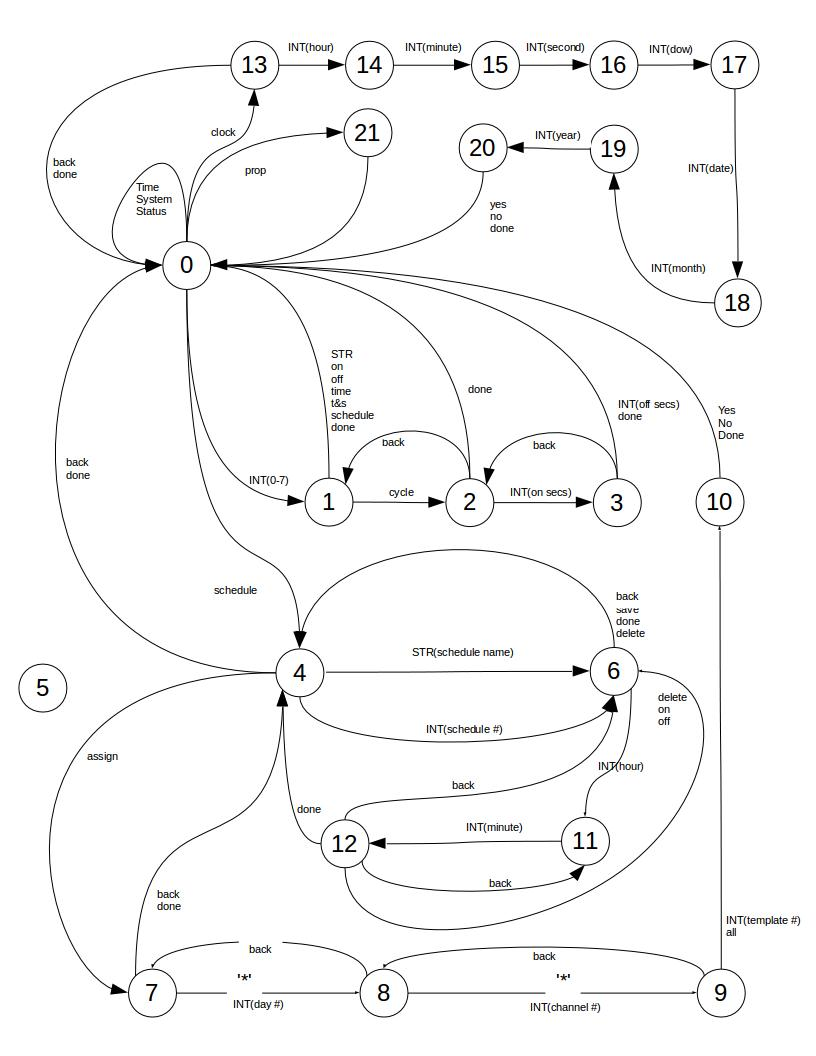
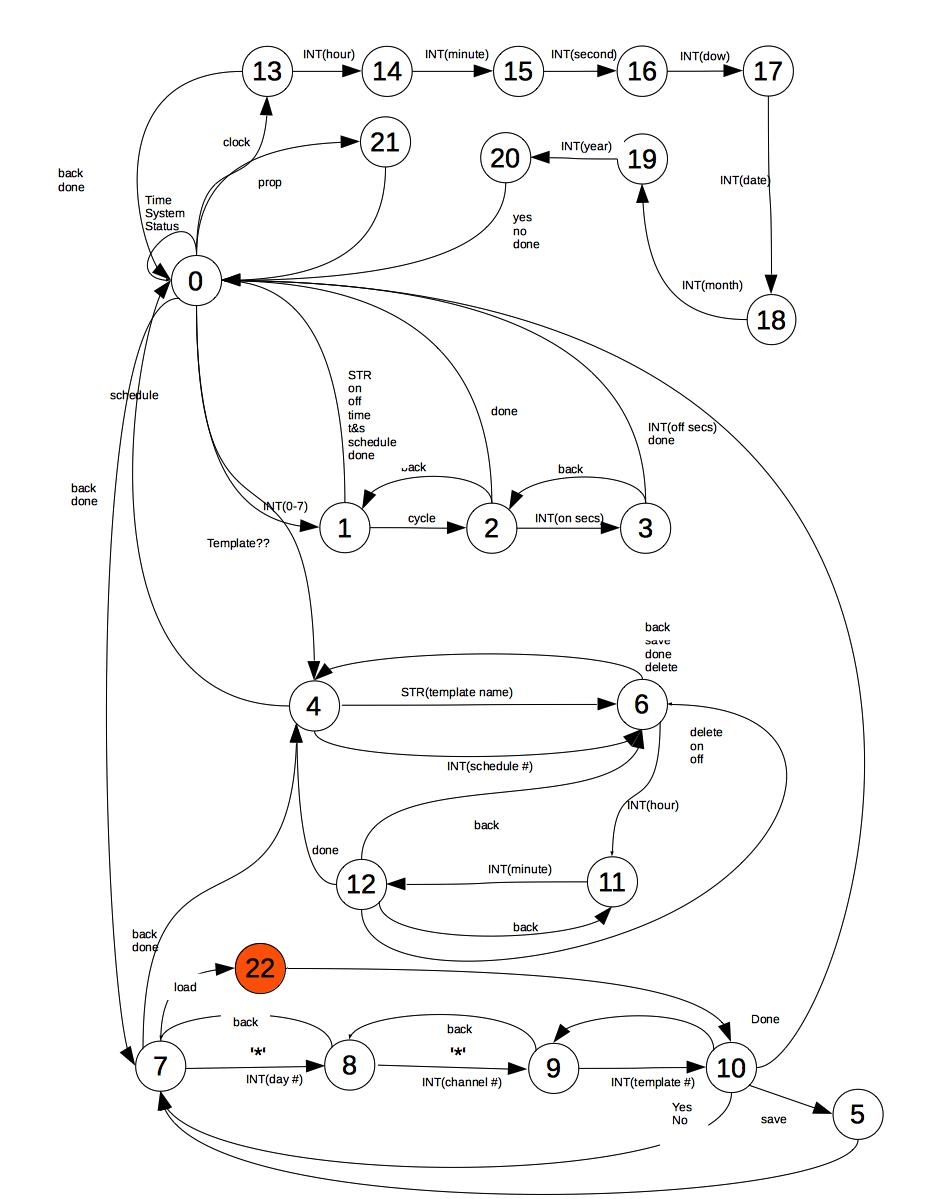
working on schedule maint

diff --git a/Pcon-BBB/cmd_fsm.c b/Pcon-BBB/cmd_fsm.c
@@ -176,7 +176,7 @@ char    *STR_def[_CMD_STATES] = {
 /* cmd processor state transition table */
 int cmd_new_state[_CMD_TOKENS][_CMD_STATES] ={
 /*                    0   1   2   3   4   5   6   7   8   9  10  11  12  13  14  15  16  17  18  19  20  21*/
-/*  0  INT      */  { 1,  1,  3,  0,  6,  6, 11,  8,  9,  7,  0, 12,  0,  0,  0,  0,  0,  0,  0,  0,  0,  0},
+/*  0  INT      */  { 1,  1,  3,  0,  6,  6, 11,  8,  9, 10,  0, 12,  0,  0,  0,  0,  0,  0,  0,  0,  0,  0},
 /*  1  STR      */  { 0,  0,  2,  3,  6,  5,  6,  7,  8,  0,  0,  0,  0,  0,  0,  0,  0,  0,  0,  0,  0,  0},
 /*  2  $        */  { 0,  1,  2,  3,  4,  5,  6,  7,  8,  0,  0,  0,  0,  0,  0,  0,  0,  0,  0,  0,  0,  0},
 /*  3  *        */  { 0,  1,  2,  3,  4,  5,  6,  8,  9,  0,  0,  0,  0,  0,  0,  0,  0,  0,  0,  0,  0,  0},
@@ -250,7 +250,7 @@ int c_34(CMD_FSM_CB *); /* state 0 prompt */
 int c_35(CMD_FSM_CB *); /* set working template number */
 int c_36(CMD_FSM_CB *); /* append state 0 prompt to prompt buffer */
 int c_37(CMD_FSM_CB *); /* display debug data */
-
+int c_38(CMD_FSM_CB *); /* state 7 prompt */
 
 
 
@@ -288,7 +288,7 @@ CMD_ACTION_PTR cmd_action[_CMD_TOKENS][_CMD_STATES] = {
 /* 27  OTHER    */  { c_8,  c_0,  c_0,  c_0,  c_0,  c_0,  c_0,  c_0,  c_0,  c_0,  c_0,  c_0,  c_0,  c_0,  c_0,  c_0,  c_0,  c_0,  c_0,  c_0,  c_0,  c_0},
 /* 28  ?        */  { c_1,  c_1,  c_1,  c_1,  c_1,  c_1,  c_1,  c_1,  c_1,  c_1,  c_1,  c_1,  c_1,  c_1,  c_1,  c_1,  c_1,  c_1,  c_1,  c_1,  c_1,  c_1},
 /* 29  q        */  { c_3,  c_3,  c_3,  c_3,  c_3,  c_3,  c_3,  c_3,  c_3,  c_3,  c_3,  c_3,  c_3,  c_3,  c_3,  c_3,  c_3,  c_3,  c_0,  c_0,  c_0,  c_0},
-/* 30  done     */  { c_0, c_34,  c_0,  c_0, c_34,  c_0, c_18, c_34,  c_0,  c_0,  c_0,  c_0,  c_0,  c_0,  c_0,  c_0,  c_0,  c_0,  c_0,  c_0,  c_0,  c_0},
+/* 30  done     */  { c_0, c_34,  c_0,  c_0, c_34,  c_0, c_18, c_34, c_34, c_34, c_34,  c_0,  c_0,  c_0,  c_0,  c_0,  c_0,  c_0,  c_0,  c_0,  c_0,  c_0},
 /* 31  back     */  { c_0, c_34,  c_0,  c_0, c_34,  c_0,  c_0, c_34,  c_0,  c_0,  c_0,  c_0,  c_0,  c_0,  c_0,  c_0,  c_0,  c_0,  c_0,  c_0,  c_0,  c_0},
 /* 32  system   */  {c_14, c_14, c_14, c_14, c_14, c_14, c_14, c_14, c_14, c_14, c_14, c_14, c_14, c_14, c_14, c_14, c_14, c_14, c_14, c_14, c_14, c_14},
 /* 33  debug    */  {c_37, c_37, c_37, c_37, c_37, c_37, c_37, c_37, c_37, c_37, c_37, c_37, c_37, c_37, c_37, c_37, c_37, c_37, c_37, c_37, c_37, c_37}};
@@ -583,8 +583,8 @@ int c_4(CMD_FSM_CB *cb)
 {
     if (cb->token_value < _NUMBER_OF_CHANNELS){
         cb->w_channel = cb->token_value;
-       cb->w_minutes = 0;
-       cb->w_hours = 0;
+       	cb->w_minutes = 0;
+       	cb->w_hours = 0;
         strcpy(cb->prompt_buffer,"enter action for channel ");
         strcat(cb->prompt_buffer,cb->token);
         strcat(cb->prompt_buffer,"\n\r> ");
@@ -1075,13 +1075,18 @@ int c_29(CMD_FSM_CB *cb)
 /* set working day */
 int c_30(CMD_FSM_CB *cb)
 {
-
-    // printf("editing system schedule\r\n");
-    cb->w_day = cb->token_value - 1;
+    if ((cb->token_value > 0) && (cb->token_value < _DAYS_PER_WEEK + 1)){
+ 		cb->w_day = cb->token_value - 1;
+        return 0;
+    }
+    strcpy(cb->prompt_buffer,"\r\n  day number must be 1 to 7 > ");
+    return 1;
 
     /* build prompt */
-    strcpy(cb->prompt_buffer,"\r\n  >");
+    strcpy(cb->prompt_buffer,"\r\n  enter day number or * > ");
+
     return 0;
+
 }
 
 /* set working channel to all */
@@ -1198,6 +1203,21 @@ int c_37(CMD_FSM_CB *cb)
 
     c_34(cb);   // state 0 prompt
     return 0;
+}
+
+/* reset work variables and display state 7 prompt */ 
+int c_38(CMD_FSM_CB *cb)
+{
+    // char            temp_buf[128];
+
+   cb->w_channel = 0;
+   cb->w_channel = 0;
+   cb->w_template_num = 0;
+
+   /* build prompt */
+   c_27(cb);
+   
+   return 0; 
 }
 /**************** end command fsm action routines ******************/
 

diff --git a/Pcon-share/shared.h b/Pcon-share/shared.h
@@ -4,7 +4,7 @@
 /* version info */
 #define _major_version 			2
 #define _minor_version 			2
-#define _minor_revision 		7
+#define _minor_revision 		8
 
 /* shared bone-C3 commands */
 #define _PING         	27
